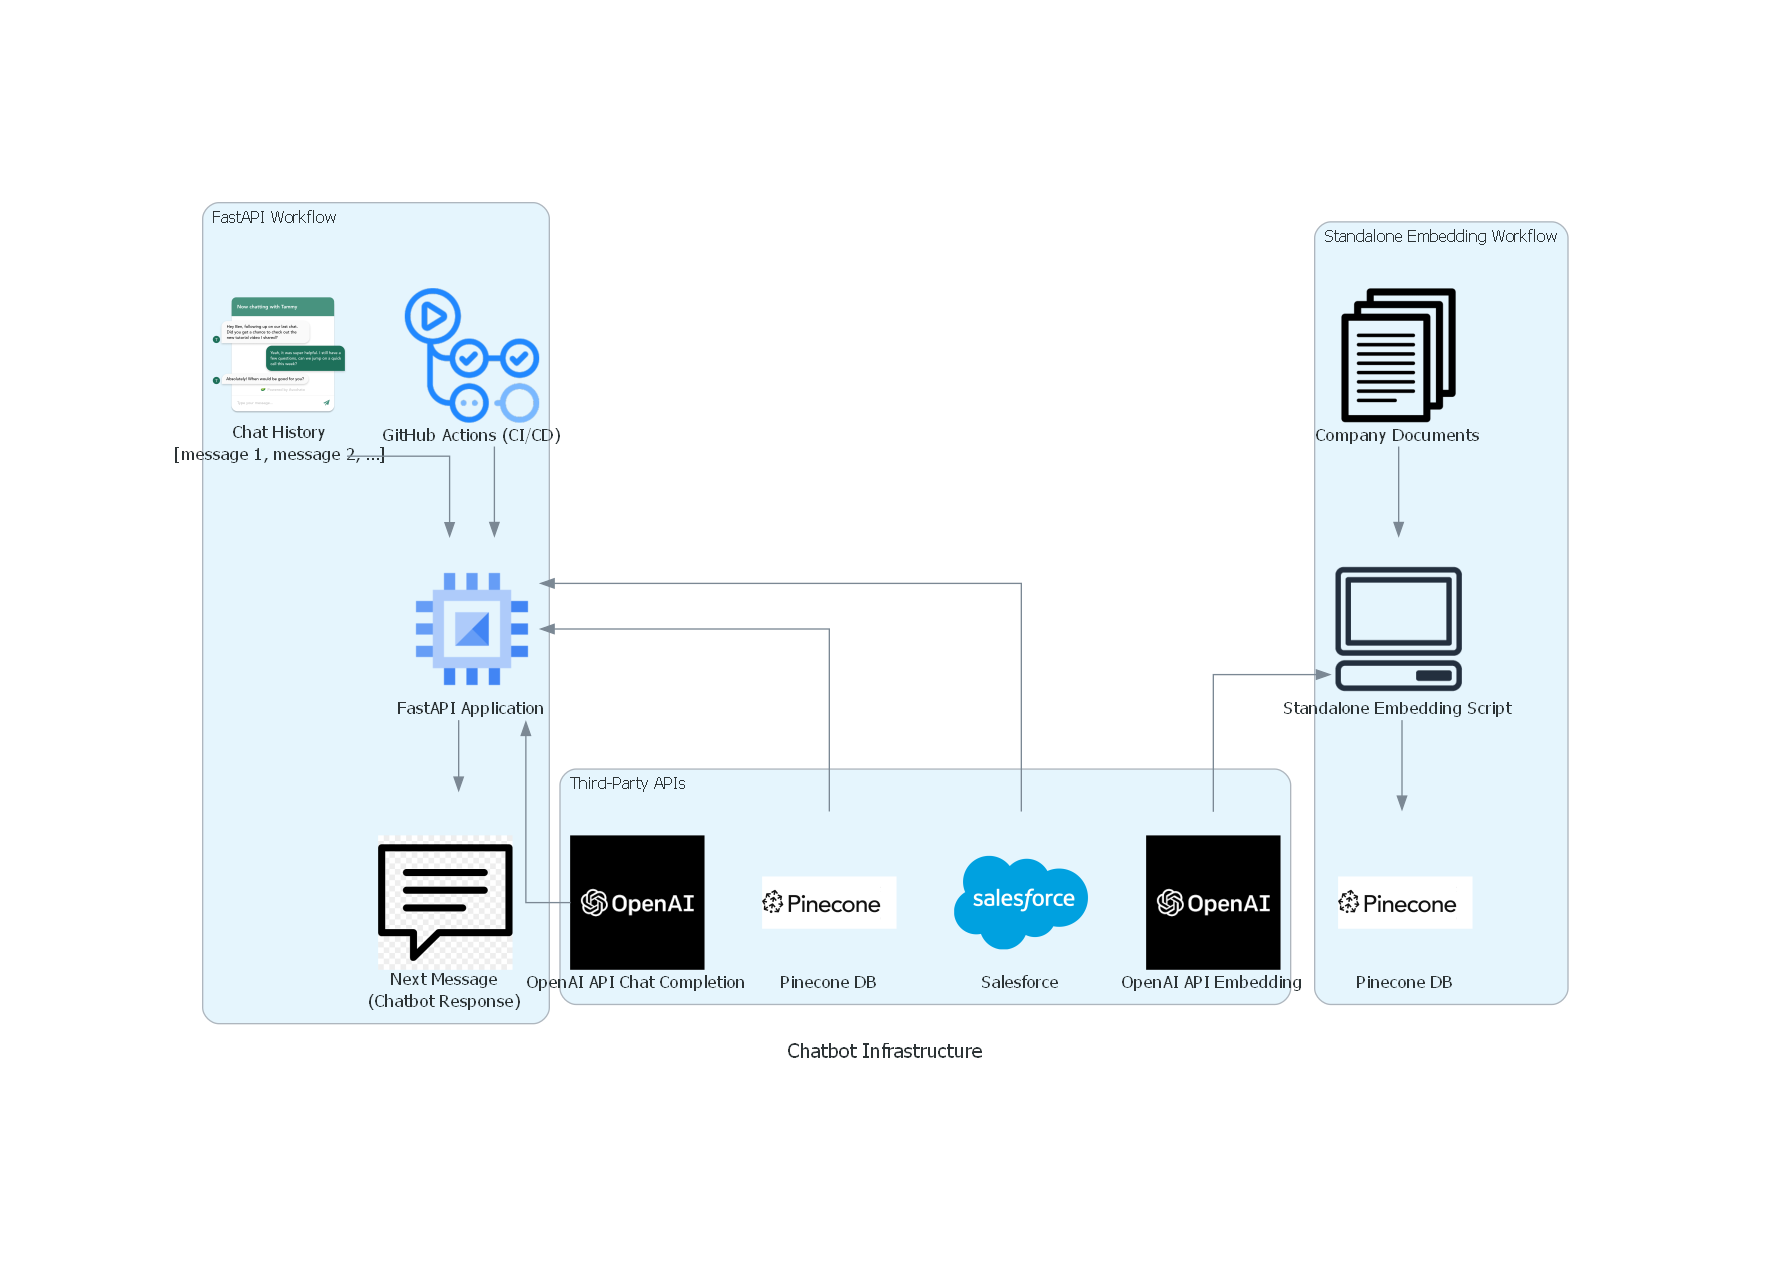
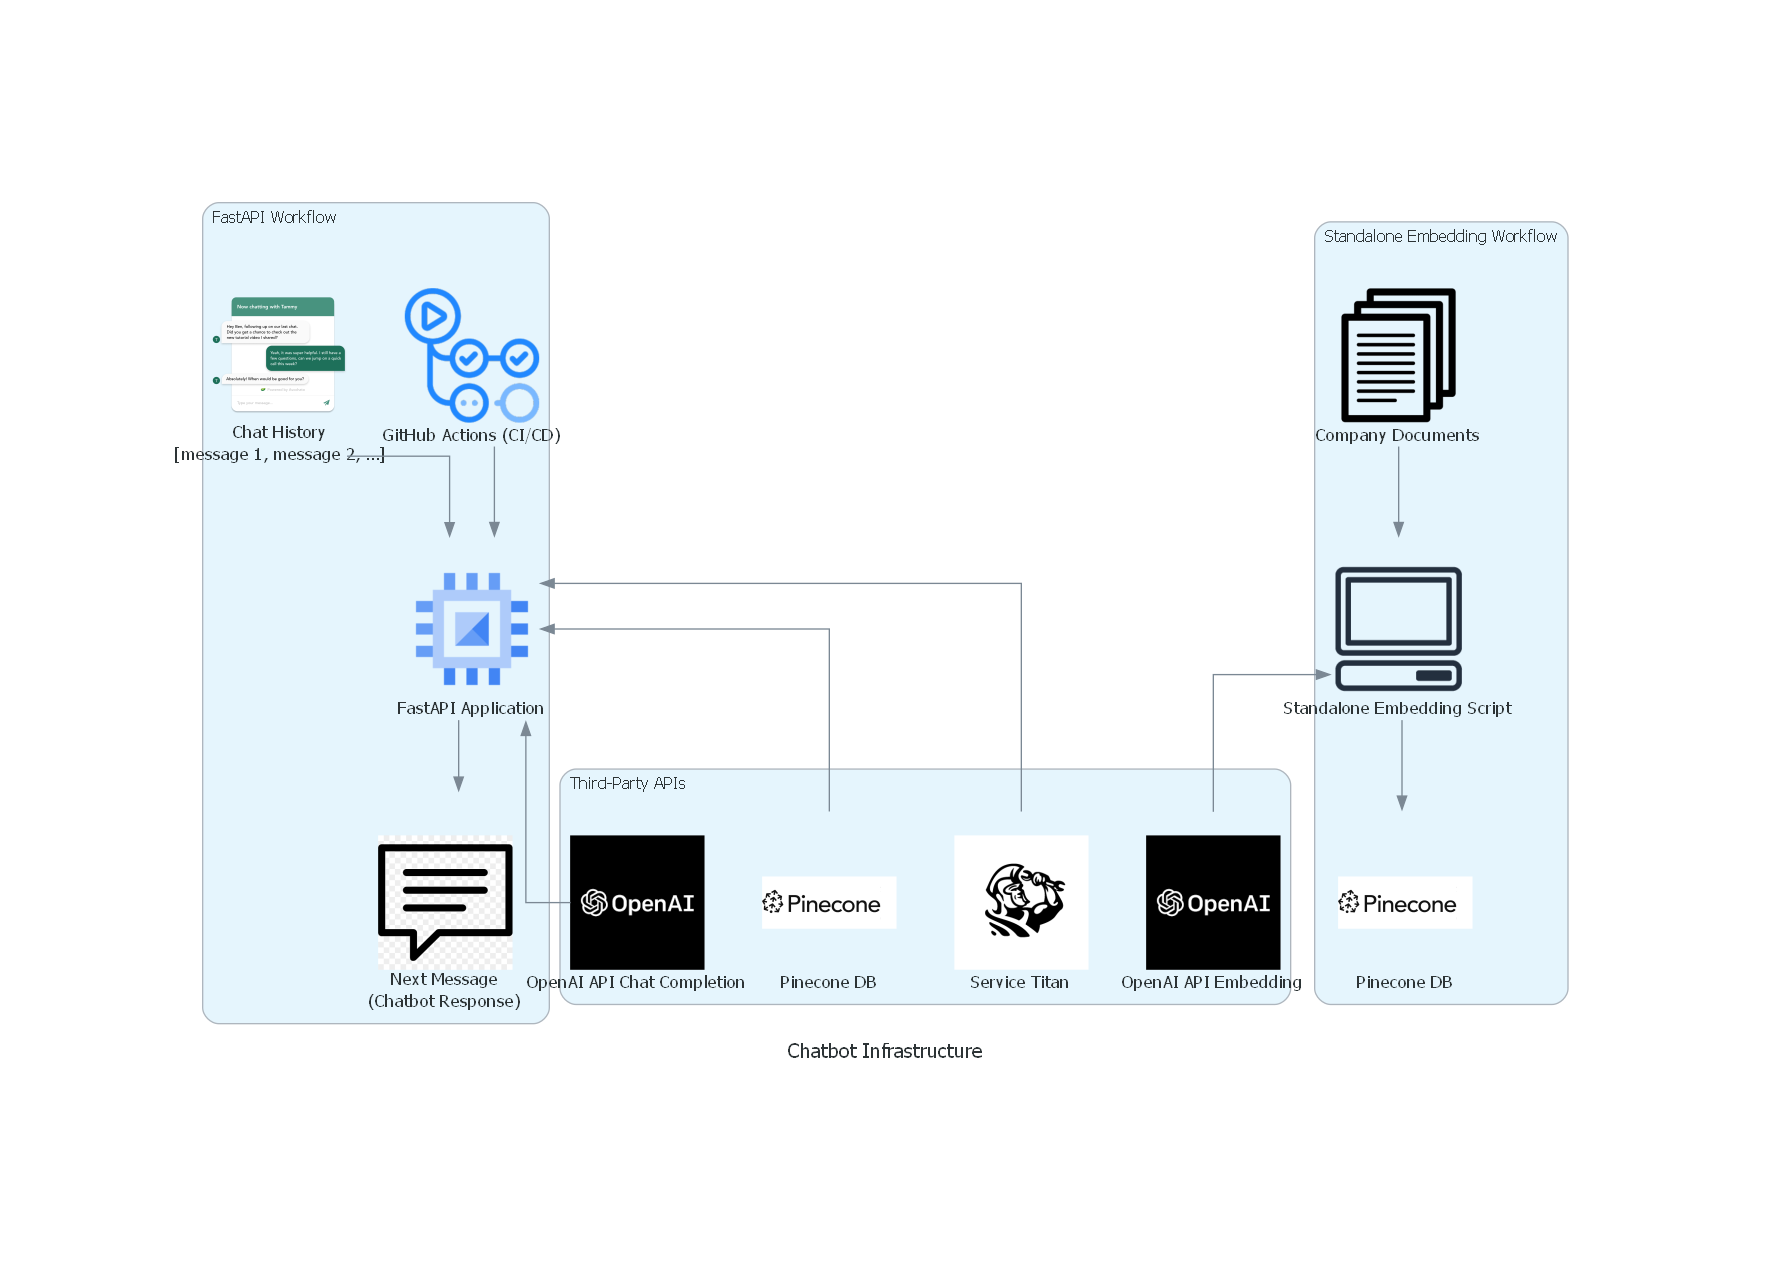
Updated infrastructure

Changed region(s): [[0.528, 0.6485, 0.6211, 0.8029]]

diff --git a/invoice_packing_slip_comparison_infrastructure.py b/invoice_packing_slip_comparison_infrastructure.py
@@ -1,53 +1,44 @@
 from diagrams import Diagram, Cluster
 from diagrams.custom import Custom
 from diagrams.gcp.storage import Storage
+from diagrams.gcp.compute import Functions
 from diagrams.onprem.ci import GithubActions
-from diagrams.gcp.compute import ComputeEngine
-from diagrams.onprem.client import User
 
 # Define the diagram
 with Diagram("Invoice and Packing Slip Processing Infrastructure", filename="invoice_packing_slip_comparison_infrastructure", show=False, direction="TB"):
-    # User at the top
-    user = User("User")
-
-    # React Frontend Workflow
-    with Cluster("React Frontend Workflow"):
-        # Input Layer
-        pdf_invoice = Custom("\n\nPDF Invoice", "images/invoice.png")
-        packing_slip_image = Custom("Packing Slip Image", "images/packing_slip.png")
-        
-        # Hosted React Frontend
-        react_frontend = Custom("React Frontend", "images/react.png")
-        cloud_storage = Storage("Cloud Storage (Hosting)")
-        github_actions_frontend = GithubActions("GitHub Actions (CI/CD)")
-
-    # FastAPI Backend Workflow
-    with Cluster("FastAPI Backend Workflow"):
+    # Cloud Function Workflow
+    with Cluster("Cloud Function Workflow"):
         # Processing Layer
-        fastapi_app = ComputeEngine("FastAPI Application")
+        cloud_function = Functions("Weekly Cloud Function")
         github_actions_backend = GithubActions("GitHub Actions (CI/CD)")
         
         # Output Layer
         comparison_result = Custom("\n\nComparison Result\n(Differences)", "images/file_comparison.png")
+        email_service = Custom("Email Service", "images/email_parser.png")
 
     # Third-Party APIs
     with Cluster("Third-Party APIs"):
         openai_image_api = Custom("OpenAI API (Image Processing)", "images/openai.png")
         openai_summary_api = Custom("\nOpenAI API (Summary)", "images/openai.png")
 
-    # User Relationships
-    user >> pdf_invoice  # User provides PDF Invoice
-    user >> packing_slip_image  # User provides Packing Slip Image
+    # Zapier Flow
+    with Cluster("Zapier Workflow"):
+        zapier = Custom("Zapier", "images/zapier.png")
+        email_parser = Custom("Email Parser", "images/email_parser.png")
+        google_sheets_zapier = Custom("\n\nGoogle Sheets\n(Purchase Orders)", "images/google_sheets.png")
 
-    # React Frontend Relationships
-    pdf_invoice >> react_frontend  # User uploads PDF Invoice
-    packing_slip_image >> react_frontend  # User uploads Packing Slip Image
-    react_frontend >> cloud_storage  # React is hosted on cloud storage
-    github_actions_frontend >> cloud_storage  # CI/CD deploys React app to cloud storage
+        email_parser >> zapier >> google_sheets_zapier
 
-    # FastAPI Backend Relationships
-    fastapi_app << react_frontend  # Backend receives data from Frontend
-    fastapi_app << openai_image_api  # FastAPI queries OpenAI API for packing slip image processing
-    fastapi_app << openai_summary_api  # FastAPI queries OpenAI API for summarizing differences
-    fastapi_app >> comparison_result  # Backend outputs the comparison result
-    github_actions_backend >> fastapi_app  # CI/CD for FastAPI Backend
+    # Google Form Flow
+    with Cluster("Google Form Workflow"):
+        google_form = Custom("\n\nGoogle Form\n(Packing Slips)", "images/google_forms.png")
+        google_sheets_form = Custom("\n\nGoogle Sheets\n(Packing Slips)", "images/google_sheets.png")
+
+        google_form >> google_sheets_form
+
+    # Cloud Function Relationships
+    cloud_function << openai_image_api  # Cloud Function queries OpenAI API for packing slip image processing
+    cloud_function << openai_summary_api  # Cloud Function queries OpenAI API for summarizing differences
+    cloud_function >> comparison_result  # Cloud Function outputs the comparison result
+    comparison_result >> email_service  # Comparison result is sent via email
+    github_actions_backend >> cloud_function  # CI/CD for Cloud Function

diff --git a/chatbot_infrastructure.py b/chatbot_infrastructure.py
@@ -34,7 +34,7 @@ with Diagram("Chatbot Infrastructure", filename="chatbot_infrastructure", show=F
         # FastAPI Workflow APIs
         openai_api_chat = Custom("OpenAI API Chat Completion", "images/openai.png")
         pinecone_db_fastapi = Custom("Pinecone DB", "images/pinecone.png")
-        salesforce = Custom("Salesforce", "images/salesforce.png")
+        salesforce = Custom("Service Titan", "images/service_titan.png")
 
         # Standalone Embedding Workflow APIs
         openai_api_embedding = Custom("OpenAI API Embedding", "images/openai.png")
